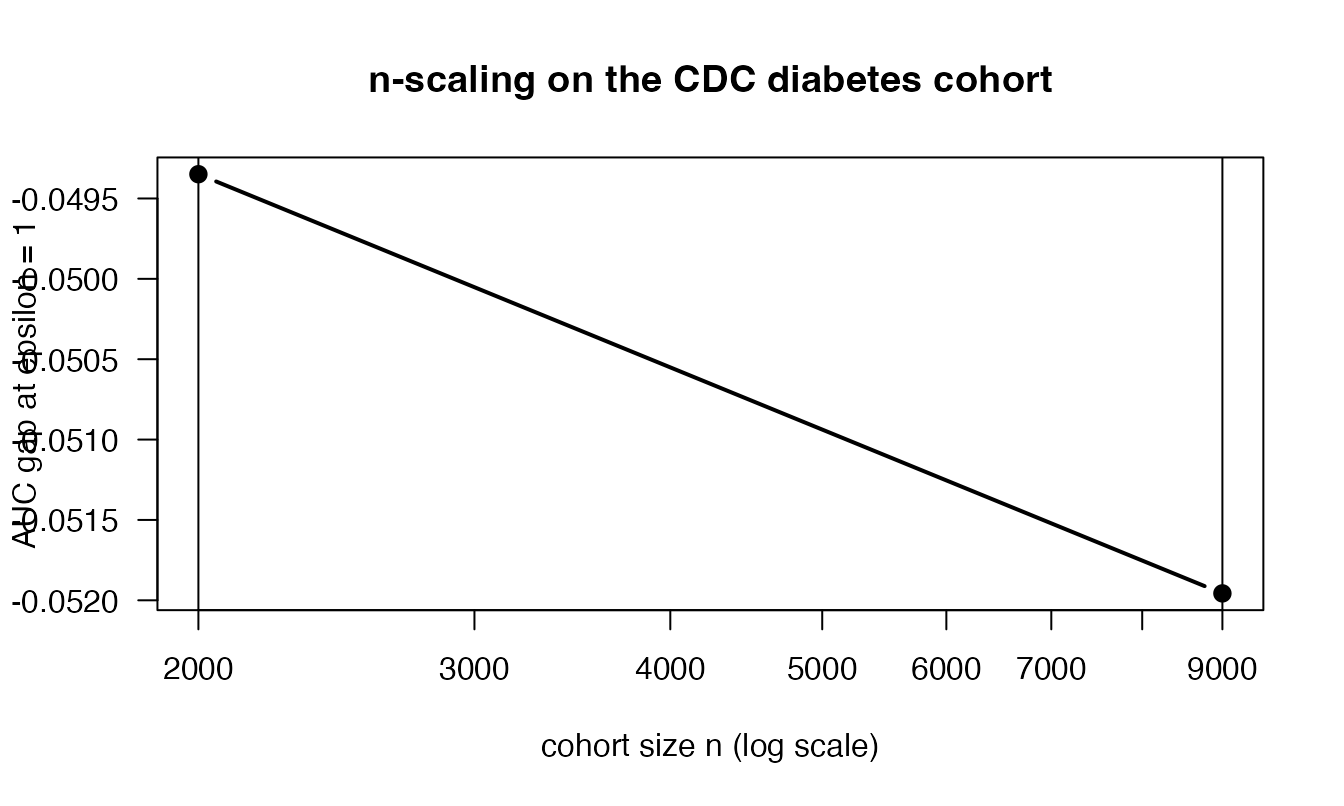
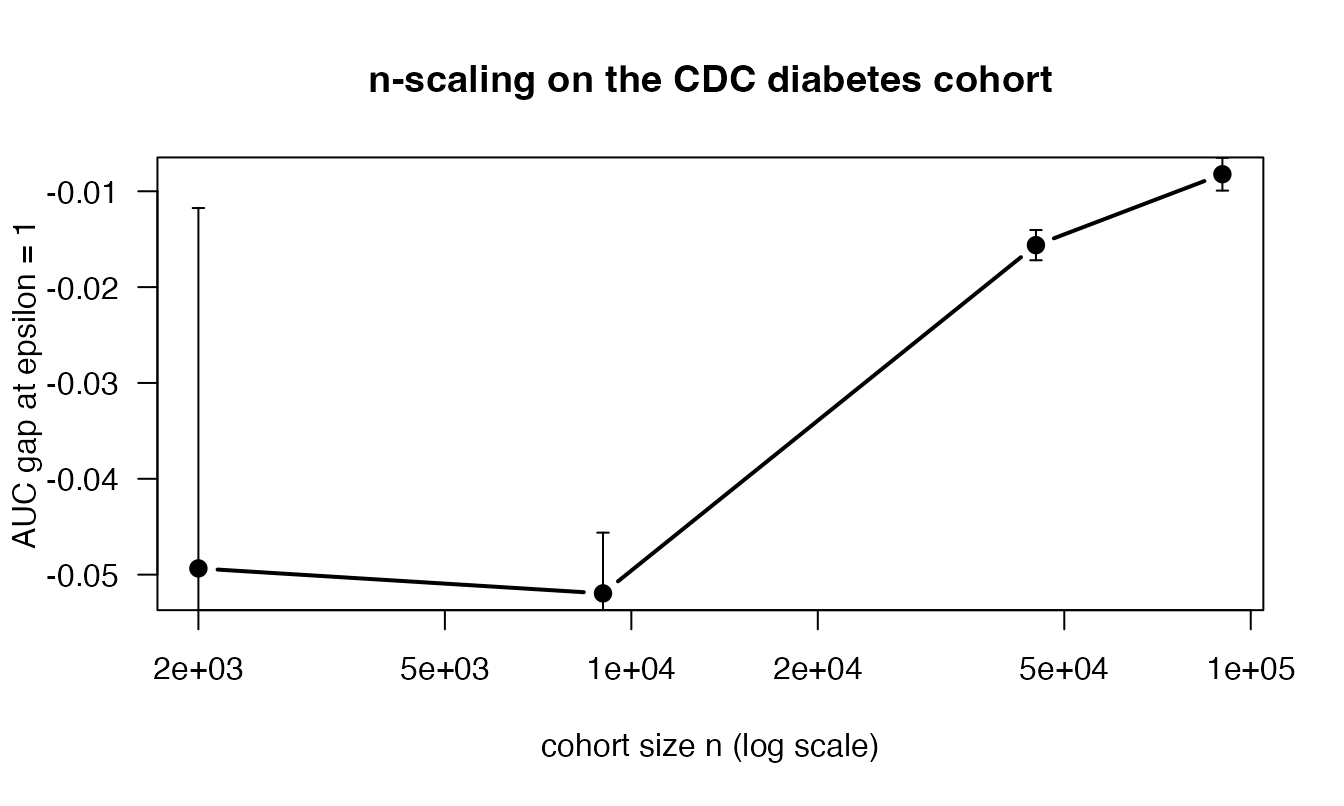
Utility-campaign article: fold in the completed n-scaling arm (12 cells) with its interpretation

diff --git a/docs/articles/utility-campaign.html b/docs/articles/utility-campaign.html
@@ -109,11 +109,11 @@ are stored alongside. The headline quantity is the utility gap
 <h2 id="executed-cells">Executed cells<a class="anchor" aria-label="anchor" href="#executed-cells"></a>
 </h2>
 <table class="table">
-<caption>All executed campaign cells (10), three seeded replicates each,
+<caption>All executed campaign cells (12), three seeded replicates each,
 five federated rounds, three sites, delta = 1e-6, package-default
 clipping.</caption>
 <colgroup>
-<col width="37%">
+<col width="38%">
 <col width="11%">
 <col width="6%">
 <col width="9%">
@@ -166,6 +166,24 @@ clipping.</caption>
 <td align="right">0.7901</td>
 <td align="right">-0.0493</td>
 <td align="right">0.0376</td>
+</tr>
+<tr class="odd">
+<td align="left">CDC diabetes (stratified subsample) (n = 45,000)</td>
+<td align="left">pytorch_logreg</td>
+<td align="right">1</td>
+<td align="right">0.8199</td>
+<td align="right">0.8043</td>
+<td align="right">-0.0156</td>
+<td align="right">0.0016</td>
+</tr>
+<tr class="even">
+<td align="left">CDC diabetes (stratified subsample) (n = 90,000)</td>
+<td align="left">pytorch_logreg</td>
+<td align="right">1</td>
+<td align="right">0.8159</td>
+<td align="right">0.8077</td>
+<td align="right">-0.0082</td>
+<td align="right">0.0017</td>
 </tr>
 <tr class="odd">
 <td align="left">CDC diabetes (stratified subsample) (n = 9,000)</td>
@@ -259,6 +277,13 @@ free.</li>
 <code>1/(n \* eps)</code>: at fixed epsilon, growing the cohort should
 shrink the privacy part of the gap toward the federation residual.</p>
 <p><img src="utility-campaign_files/figure-html/n-scaling-1.png" class="r-plt" alt="Utility gap versus cohort size at epsilon = 1" width="672"></p>
+<p>With the full arm executed, the curve is unambiguous: at epsilon = 1
+the AUC gap shrinks from about -0.05 at n = 2,000-9,000 to about -0.016
+at n = 45,000 and -0.008 at n = 90,000. Two error sources shrink
+together: the per-sample DP noise (the <code>1/(n eps)</code> term) and
+the federation residual itself, since local-epoch training tracks
+centralised training better as per-site data grows. At population scale,
+the default budget’s cost on this contract is under one AUC point.</p>
 </div>
 <div class="section level2">
 <h2 id="validation-checks">Validation checks<a class="anchor" aria-label="anchor" href="#validation-checks"></a>
